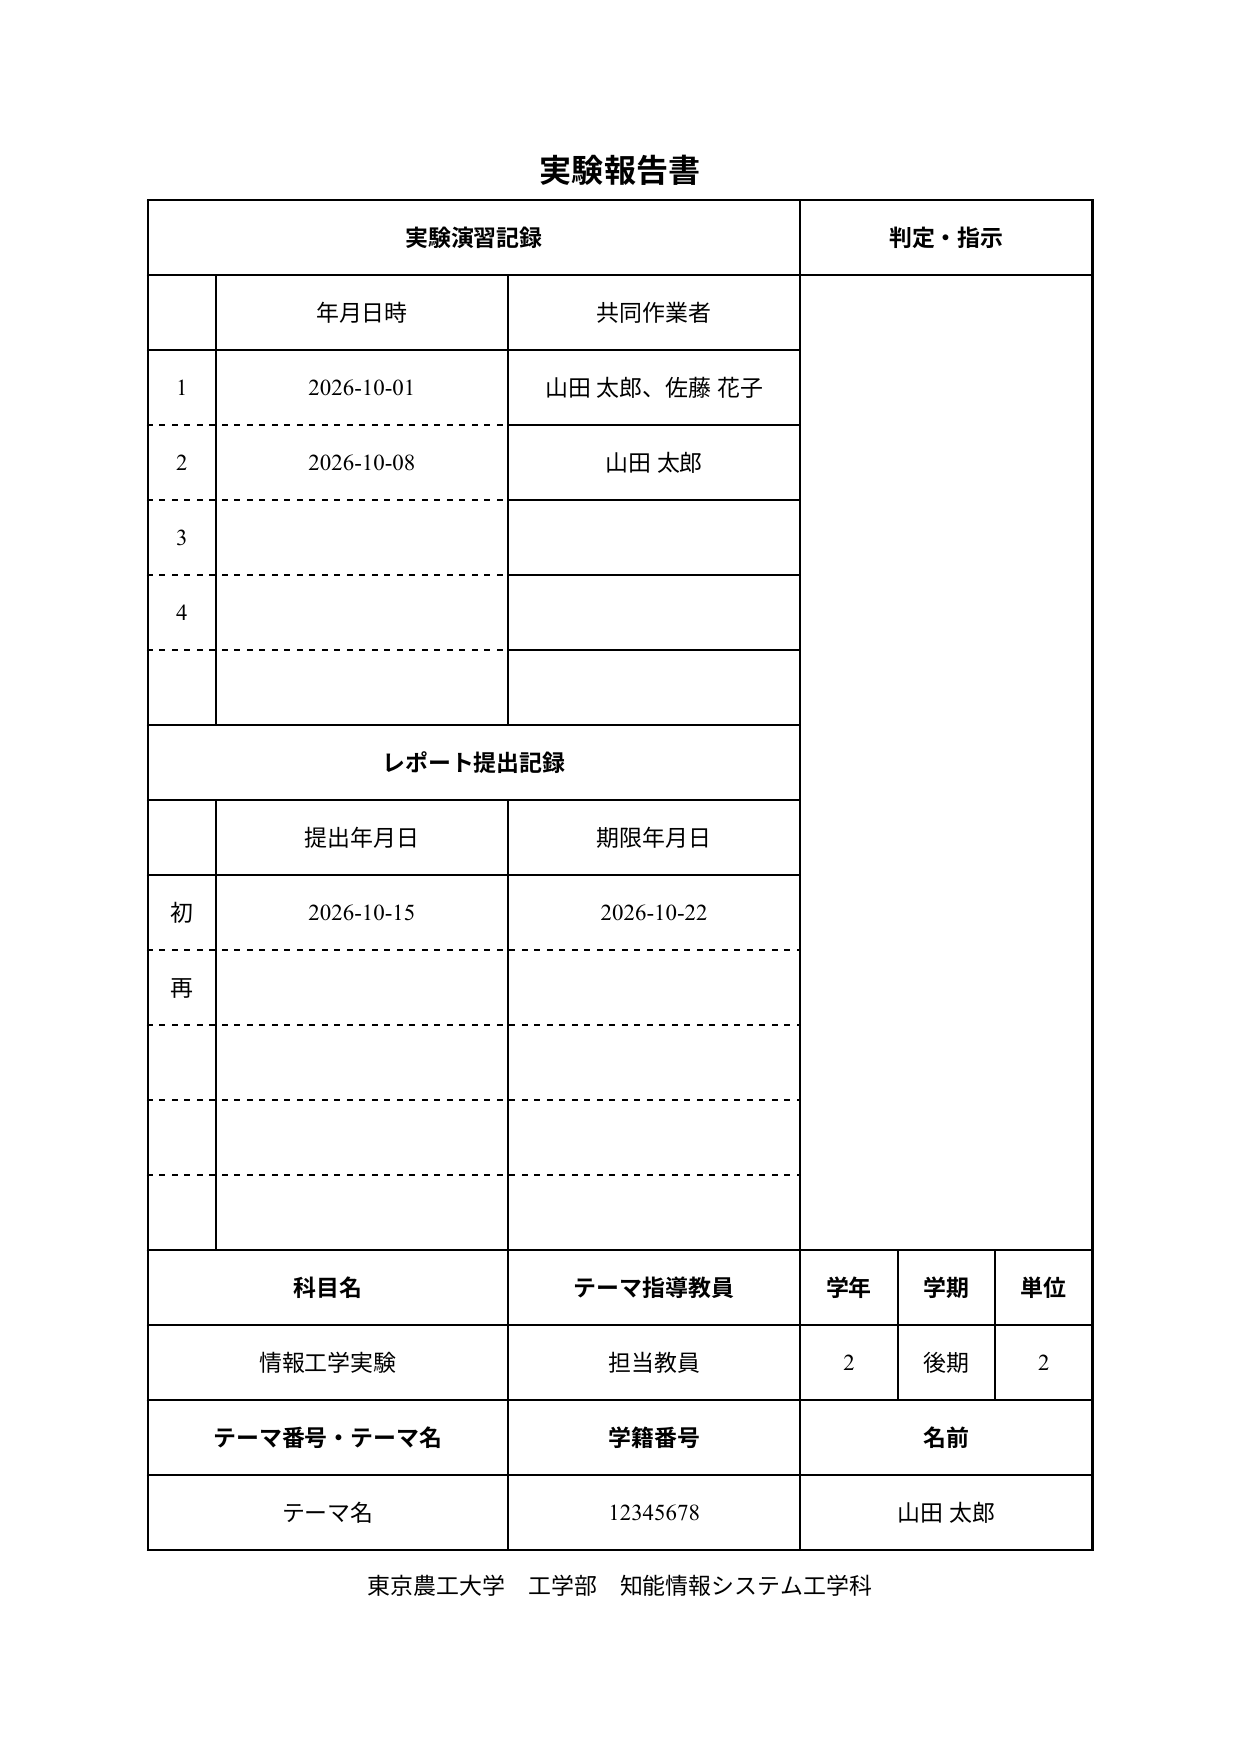
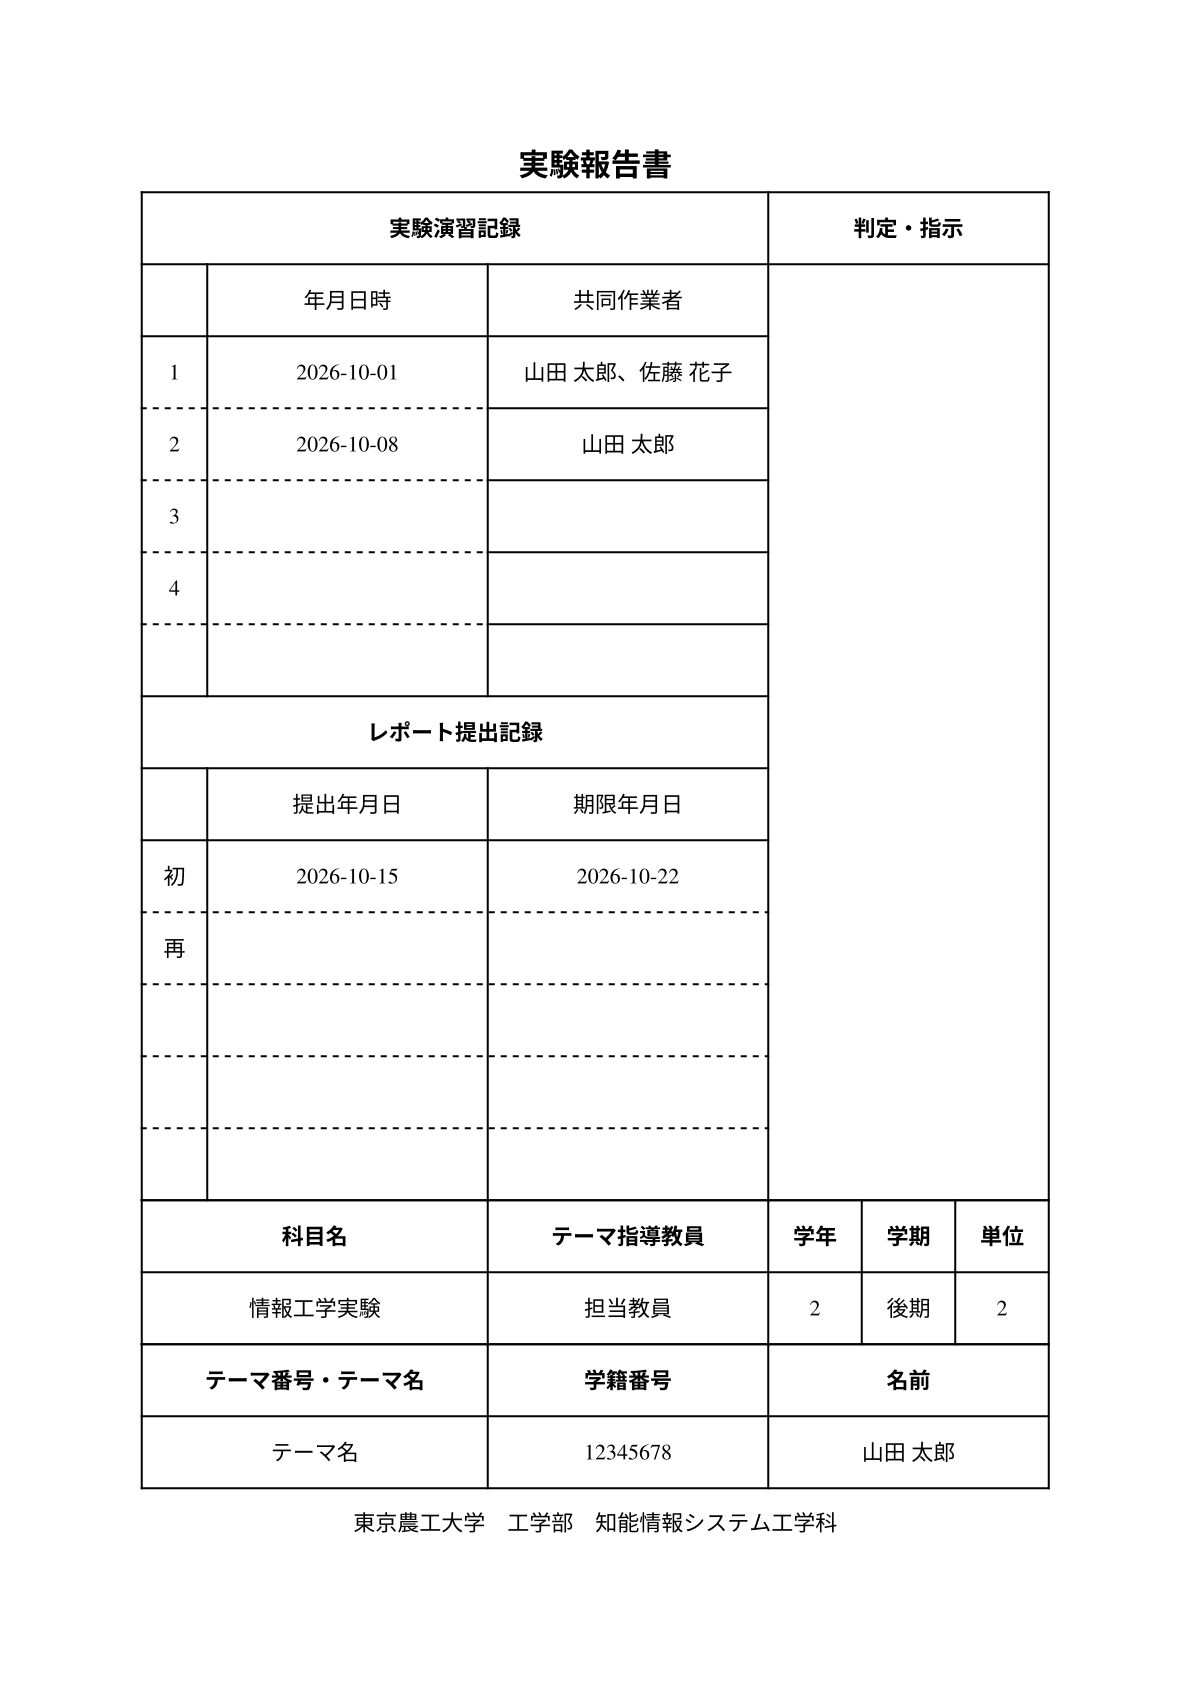
Update preview font and title function name

diff --git a/README.md b/README.md
@@ -51,14 +51,14 @@ typst init @local/tuat-typst:0.2.0 my-report
 日付と共同作業者は `records` に実験記録ごとに指定します。最大5件まで指定でき、残りの枠は空欄になります。
 
 ```typst
-#import "@local/tuat-typst:0.2.0": tuatTemplate
+#import "@local/tuat-typst:0.2.0": tuat-title
 
-#show: tuatTemplate.with(
+#show: tuat-title.with(
   records: (
     (date: "2026-10-01", collaborators: "山田 太郎、佐藤 花子"),
     (date: "2026-10-08", collaborators: "山田 太郎"),
   ),
-  submitDate: "2026-10-15",
+  submit-date: "2026-10-15",
   deadline: "2026-10-22",
   subject: "情報工学実験",
   teacher: "担当教員",
@@ -66,7 +66,7 @@ typst init @local/tuat-typst:0.2.0 my-report
   semester: "後期",
   credit: "2",
   theme: "テーマ名",
-  studentId: "12345678",
+  student-id: "12345678",
   author: "山田 太郎",
 )
 
@@ -75,6 +75,6 @@ typst init @local/tuat-typst:0.2.0 my-report
 ここから本文を書きます。
 ```
 
-タイトルは `title`、再提出日は `resubmitDate`、再提出期限は `redeadline` で指定できます。各項目の記述が長い場合や、フォント設定によっては表紙が1ページに収まらないことがあります。
+タイトルは `title`、再提出日は `resubmit-date`、再提出期限は `re-deadline` で指定できます。各項目の記述が長い場合や、フォント設定によっては表紙が1ページに収まらないことがあります。
 
 Inspired by [pineapplehunter/tuat-tex](https://github.com/pineapplehunter/tuat-tex)
